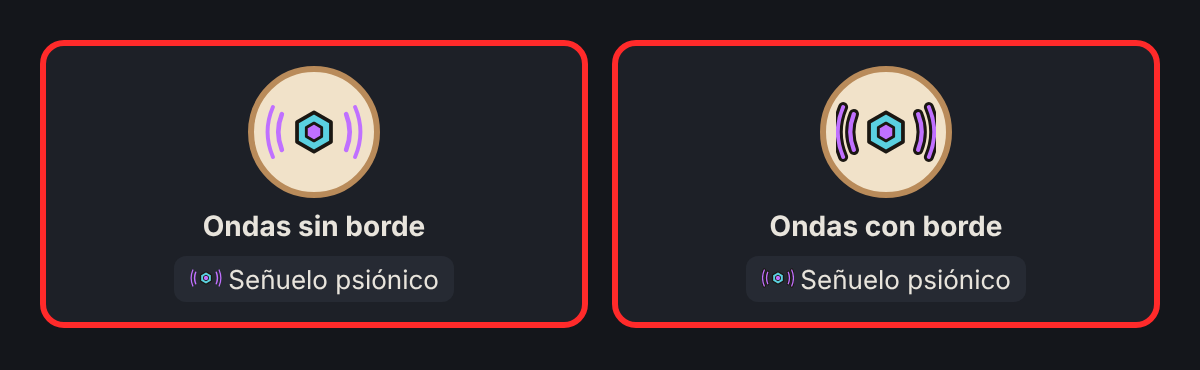
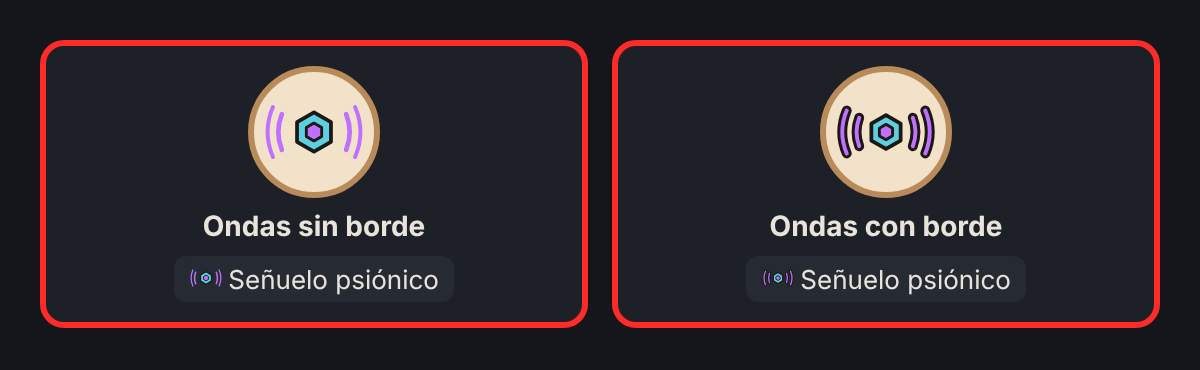
Maquetas: ondas con borde más separadas
Claude-Session: https://claude.ai/code/session_01KTvhdvJBVdNEHfAwzaEr54

Changed region(s): [[0.6783, 0.2676, 0.8017, 0.4459], [0.6167, 0.7432, 0.6783, 0.773]]

diff --git a/maquetas/senuelo_ondas.html b/maquetas/senuelo_ondas.html
@@ -1,1 +1,1 @@
-<!doctype html><meta charset=utf-8><style>body{margin:0;background:#14161b;color:#e8e4dc;font:14px system-ui;padding:20px;width:560px}.grid{display:grid;grid-template-columns:repeat(2,1fr);gap:12px}.c{border:3px solid #ff2a2a;border-radius:12px;background:#1d2027;padding:10px;display:flex;flex-direction:column;align-items:center;text-align:center}.big{width:60px;height:60px;border-radius:50%;background:#f1e2c9;border:3px solid #b98b5a;display:grid;place-items:center}.txt{margin-top:6px;background:#262a33;border-radius:6px;padding:3px 8px;font-size:13px}b{margin-top:6px}</style><div class=grid><div class=c><div class=big><svg width="50" height="50" viewBox="-4 -4 56 56" style="vertical-align:-0.2em"><path d="M33.5 29.5L24.0 35.0L14.5 29.5L14.5 18.5L24.0 13.0L33.5 18.5z" fill="#5ad0e0" stroke="#1b1712" stroke-width="2.1" stroke-linejoin="round" stroke-linecap="round"/><path d="M28.3 26.5L24.0 29.0L19.7 26.5L19.7 21.5L24.0 19.0L28.3 21.5z" fill="#c070ff" stroke="#1b1712" stroke-width="1.6" stroke-linejoin="round" stroke-linecap="round"/><path d="M6 14q-4 10 0 20M42 14q4 10 0 20" fill="none" stroke="#c070ff" stroke-width="2.6" stroke-linecap="round"/><path d="M1 10q-6 14 0 28M47 10q6 14 0 28" fill="none" stroke="#c070ff" stroke-width="2.2" stroke-linecap="round"/></svg></div><b>Ondas sin borde</b><span class=txt><svg width="16" height="16" viewBox="-4 -4 56 56" style="vertical-align:-0.2em"><path d="M33.5 29.5L24.0 35.0L14.5 29.5L14.5 18.5L24.0 13.0L33.5 18.5z" fill="#5ad0e0" stroke="#1b1712" stroke-width="2.1" stroke-linejoin="round" stroke-linecap="round"/><path d="M28.3 26.5L24.0 29.0L19.7 26.5L19.7 21.5L24.0 19.0L28.3 21.5z" fill="#c070ff" stroke="#1b1712" stroke-width="1.6" stroke-linejoin="round" stroke-linecap="round"/><path d="M6 14q-4 10 0 20M42 14q4 10 0 20" fill="none" stroke="#c070ff" stroke-width="2.6" stroke-linecap="round"/><path d="M1 10q-6 14 0 28M47 10q6 14 0 28" fill="none" stroke="#c070ff" stroke-width="2.2" stroke-linecap="round"/></svg> Señuelo psiónico</span></div><div class=c><div class=big><svg width="50" height="50" viewBox="-4 -4 56 56" style="vertical-align:-0.2em"><path d="M33.5 29.5L24.0 35.0L14.5 29.5L14.5 18.5L24.0 13.0L33.5 18.5z" fill="#5ad0e0" stroke="#1b1712" stroke-width="2.1" stroke-linejoin="round" stroke-linecap="round"/><path d="M28.3 26.5L24.0 29.0L19.7 26.5L19.7 21.5L24.0 19.0L28.3 21.5z" fill="#c070ff" stroke="#1b1712" stroke-width="1.6" stroke-linejoin="round" stroke-linecap="round"/><path d="M6 14q-4 10 0 20M42 14q4 10 0 20" fill="none" stroke="#1b1712" stroke-width="5.76" stroke-linecap="round" stroke-linejoin="round"/><path d="M6 14q-4 10 0 20M42 14q4 10 0 20" fill="none" stroke="#c070ff" stroke-width="2.4" stroke-linecap="round" stroke-linejoin="round"/><path d="M0 10q-6 14 0 28M48 10q6 14 0 28" fill="none" stroke="#1b1712" stroke-width="5.5600000000000005" stroke-linecap="round" stroke-linejoin="round"/><path d="M0 10q-6 14 0 28M48 10q6 14 0 28" fill="none" stroke="#c070ff" stroke-width="2.2" stroke-linecap="round" stroke-linejoin="round"/></svg></div><b>Ondas con borde</b><span class=txt><svg width="16" height="16" viewBox="-4 -4 56 56" style="vertical-align:-0.2em"><path d="M33.5 29.5L24.0 35.0L14.5 29.5L14.5 18.5L24.0 13.0L33.5 18.5z" fill="#5ad0e0" stroke="#1b1712" stroke-width="2.1" stroke-linejoin="round" stroke-linecap="round"/><path d="M28.3 26.5L24.0 29.0L19.7 26.5L19.7 21.5L24.0 19.0L28.3 21.5z" fill="#c070ff" stroke="#1b1712" stroke-width="1.6" stroke-linejoin="round" stroke-linecap="round"/><path d="M6 14q-4 10 0 20M42 14q4 10 0 20" fill="none" stroke="#1b1712" stroke-width="5.76" stroke-linecap="round" stroke-linejoin="round"/><path d="M6 14q-4 10 0 20M42 14q4 10 0 20" fill="none" stroke="#c070ff" stroke-width="2.4" stroke-linecap="round" stroke-linejoin="round"/><path d="M0 10q-6 14 0 28M48 10q6 14 0 28" fill="none" stroke="#1b1712" stroke-width="5.5600000000000005" stroke-linecap="round" stroke-linejoin="round"/><path d="M0 10q-6 14 0 28M48 10q6 14 0 28" fill="none" stroke="#c070ff" stroke-width="2.2" stroke-linecap="round" stroke-linejoin="round"/></svg> Señuelo psiónico</span></div></div>
+<!doctype html><meta charset=utf-8><style>body{margin:0;background:#14161b;color:#e8e4dc;font:14px system-ui;padding:20px;width:560px}.grid{display:grid;grid-template-columns:repeat(2,1fr);gap:12px}.c{border:3px solid #ff2a2a;border-radius:12px;background:#1d2027;padding:10px;display:flex;flex-direction:column;align-items:center;text-align:center}.big{width:60px;height:60px;border-radius:50%;background:#f1e2c9;border:3px solid #b98b5a;display:grid;place-items:center}.txt{margin-top:6px;background:#262a33;border-radius:6px;padding:3px 8px;font-size:13px}b{margin-top:6px}</style><div class=grid><div class=c><div class=big><svg width="50" height="50" viewBox="-4 -4 56 56" style="vertical-align:-0.2em"><path d="M33.5 29.5L24.0 35.0L14.5 29.5L14.5 18.5L24.0 13.0L33.5 18.5z" fill="#5ad0e0" stroke="#1b1712" stroke-width="2.1" stroke-linejoin="round" stroke-linecap="round"/><path d="M28.3 26.5L24.0 29.0L19.7 26.5L19.7 21.5L24.0 19.0L28.3 21.5z" fill="#c070ff" stroke="#1b1712" stroke-width="1.6" stroke-linejoin="round" stroke-linecap="round"/><path d="M6 14q-4 10 0 20M42 14q4 10 0 20" fill="none" stroke="#c070ff" stroke-width="2.6" stroke-linecap="round"/><path d="M1 10q-6 14 0 28M47 10q6 14 0 28" fill="none" stroke="#c070ff" stroke-width="2.2" stroke-linecap="round"/></svg></div><b>Ondas sin borde</b><span class=txt><svg width="16" height="16" viewBox="-4 -4 56 56" style="vertical-align:-0.2em"><path d="M33.5 29.5L24.0 35.0L14.5 29.5L14.5 18.5L24.0 13.0L33.5 18.5z" fill="#5ad0e0" stroke="#1b1712" stroke-width="2.1" stroke-linejoin="round" stroke-linecap="round"/><path d="M28.3 26.5L24.0 29.0L19.7 26.5L19.7 21.5L24.0 19.0L28.3 21.5z" fill="#c070ff" stroke="#1b1712" stroke-width="1.6" stroke-linejoin="round" stroke-linecap="round"/><path d="M6 14q-4 10 0 20M42 14q4 10 0 20" fill="none" stroke="#c070ff" stroke-width="2.6" stroke-linecap="round"/><path d="M1 10q-6 14 0 28M47 10q6 14 0 28" fill="none" stroke="#c070ff" stroke-width="2.2" stroke-linecap="round"/></svg> Señuelo psiónico</span></div><div class=c><div class=big><svg width="50" height="50" viewBox="-4 -4 56 56" style="vertical-align:-0.2em"><path d="M32.2 28.8L24.0 33.5L15.8 28.8L15.8 19.3L24.0 14.5L32.2 19.3z" fill="#5ad0e0" stroke="#1b1712" stroke-width="2.1" stroke-linejoin="round" stroke-linecap="round"/><path d="M27.7 26.1L24.0 28.3L20.3 26.2L20.3 21.9L24.0 19.7L27.7 21.9z" fill="#c070ff" stroke="#1b1712" stroke-width="1.6" stroke-linejoin="round" stroke-linecap="round"/><path d="M9 16q-3 8 0 16M39 16q3 8 0 16" fill="none" stroke="#1b1712" stroke-width="5.5600000000000005" stroke-linecap="round" stroke-linejoin="round"/><path d="M9 16q-3 8 0 16M39 16q3 8 0 16" fill="none" stroke="#c070ff" stroke-width="2.2" stroke-linecap="round" stroke-linejoin="round"/><path d="M2 12q-5 12 0 24M46 12q5 12 0 24" fill="none" stroke="#1b1712" stroke-width="5.5600000000000005" stroke-linecap="round" stroke-linejoin="round"/><path d="M2 12q-5 12 0 24M46 12q5 12 0 24" fill="none" stroke="#c070ff" stroke-width="2.2" stroke-linecap="round" stroke-linejoin="round"/></svg></div><b>Ondas con borde</b><span class=txt><svg width="16" height="16" viewBox="-4 -4 56 56" style="vertical-align:-0.2em"><path d="M32.2 28.8L24.0 33.5L15.8 28.8L15.8 19.3L24.0 14.5L32.2 19.3z" fill="#5ad0e0" stroke="#1b1712" stroke-width="2.1" stroke-linejoin="round" stroke-linecap="round"/><path d="M27.7 26.1L24.0 28.3L20.3 26.2L20.3 21.9L24.0 19.7L27.7 21.9z" fill="#c070ff" stroke="#1b1712" stroke-width="1.6" stroke-linejoin="round" stroke-linecap="round"/><path d="M9 16q-3 8 0 16M39 16q3 8 0 16" fill="none" stroke="#1b1712" stroke-width="5.5600000000000005" stroke-linecap="round" stroke-linejoin="round"/><path d="M9 16q-3 8 0 16M39 16q3 8 0 16" fill="none" stroke="#c070ff" stroke-width="2.2" stroke-linecap="round" stroke-linejoin="round"/><path d="M2 12q-5 12 0 24M46 12q5 12 0 24" fill="none" stroke="#1b1712" stroke-width="5.5600000000000005" stroke-linecap="round" stroke-linejoin="round"/><path d="M2 12q-5 12 0 24M46 12q5 12 0 24" fill="none" stroke="#c070ff" stroke-width="2.2" stroke-linecap="round" stroke-linejoin="round"/></svg> Señuelo psiónico</span></div></div>
